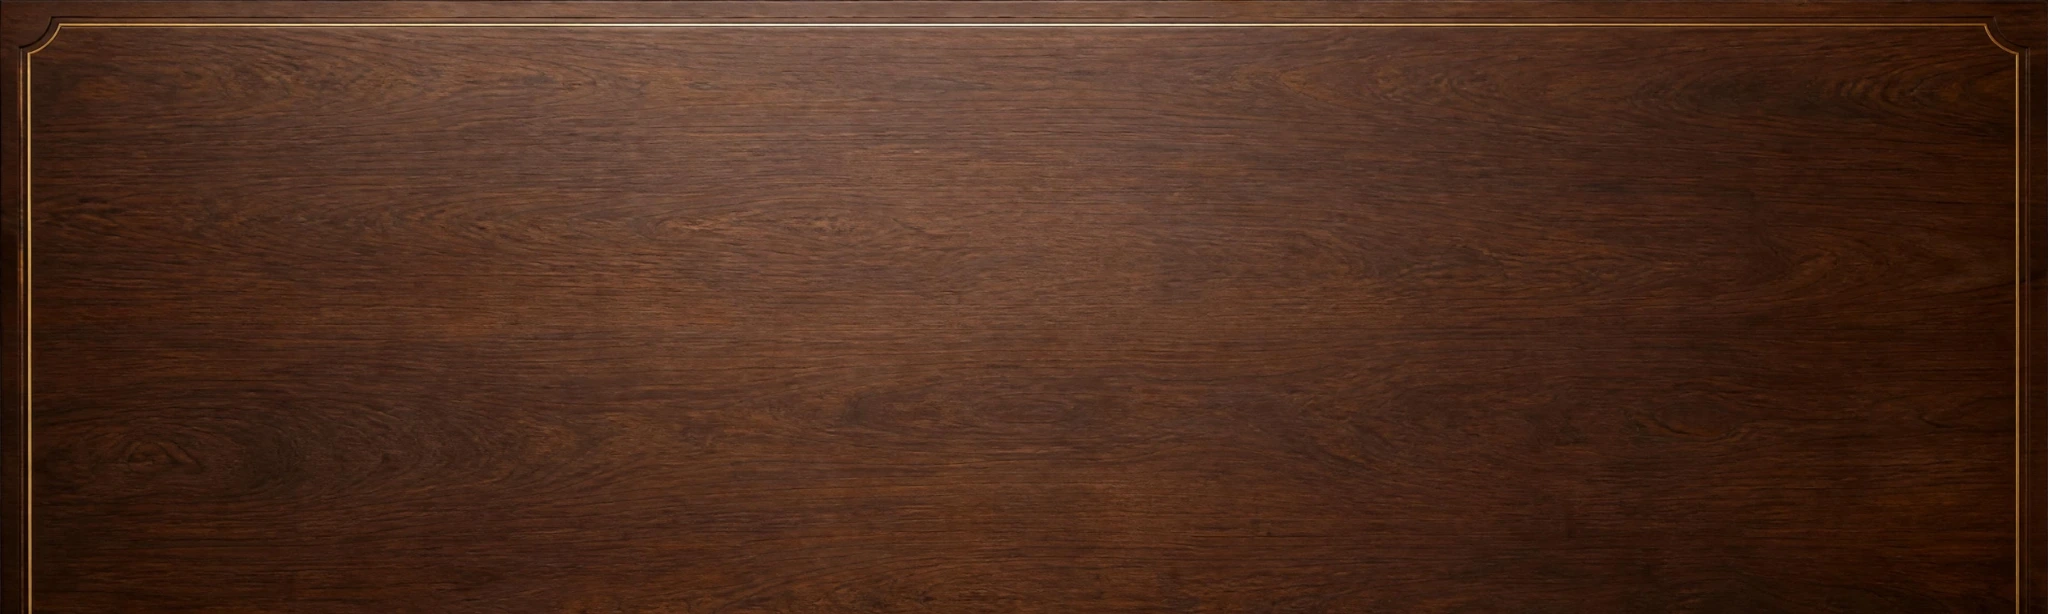
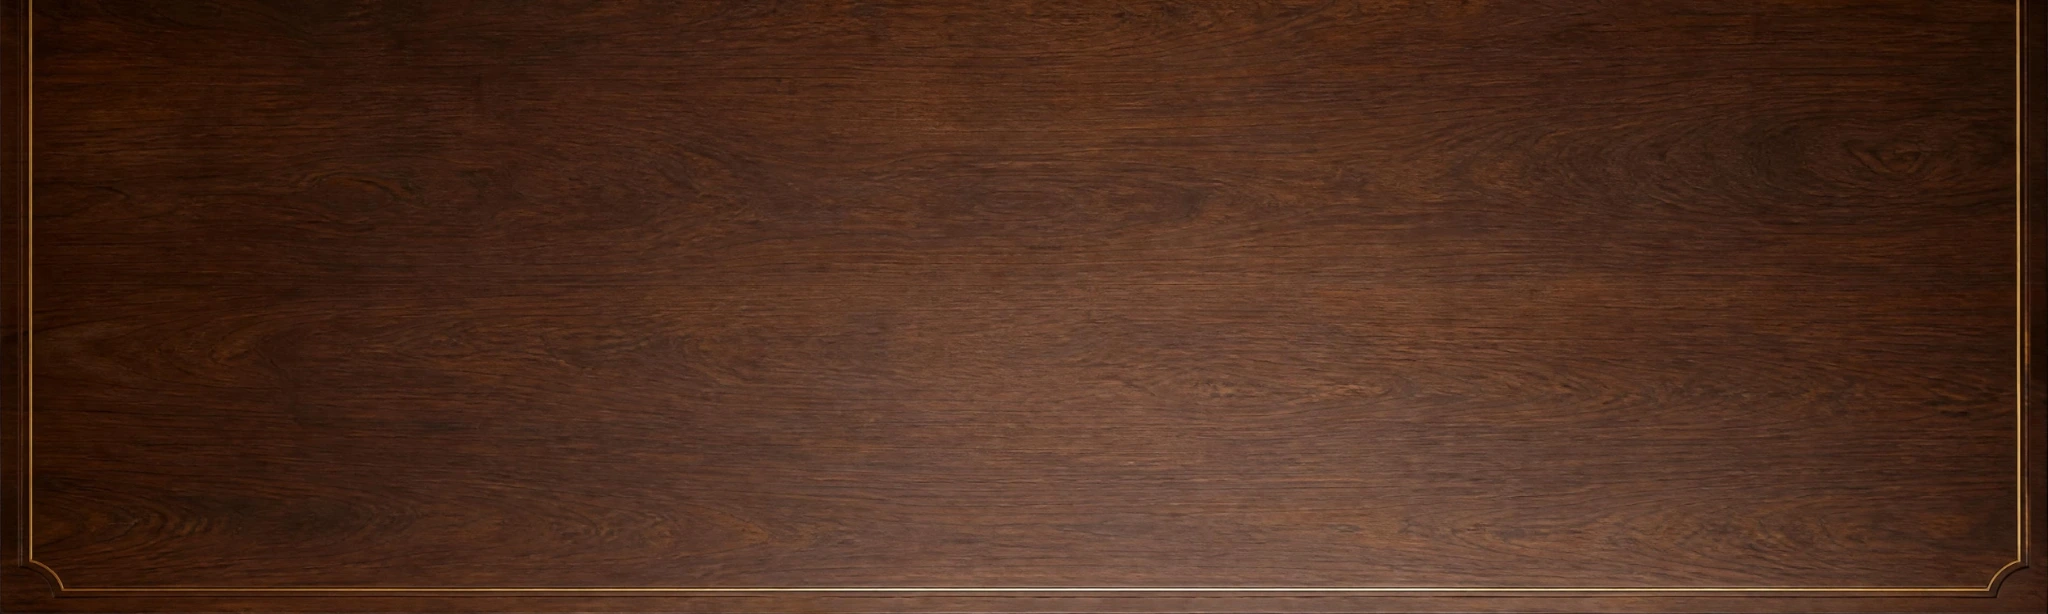
v7.69.15 board skin clarity and lobby finish polish

diff --git a/public/styles.css b/public/styles.css
@@ -11489,3 +11489,92 @@ body.match-mode .opponent-board::before { transform:rotate(180deg); }
     background-size:155% 155%,180% 180%,200% 200%;
   }
 }
+
+/* v7.69.15 — board-skin clarity, resource rail balance + lobby large-card finish */
+/* A real board skin owns the lane surface. Keep the interaction slots, but let the artwork breathe. */
+body.match-mode .player-board[class*="board-skin-"] .board-lane {
+  background:transparent !important;
+  border-color:transparent !important;
+  box-shadow:none !important;
+}
+body.match-mode .player-board[class*="board-skin-"] .board-lane::before { display:none !important; }
+
+/* Resource rail: the Archive remains visibly related to the Deck instead of collapsing into a tiny counter. */
+@media (min-width:761px) and (min-height:601px) {
+  body.match-mode .board-resource-row { width:118px; }
+  body.match-mode .archive-compact.is-empty summary {
+    min-height:58px;
+    padding:6px 8px;
+  }
+  body.match-mode .archive-compact.is-empty .archive-summary-copy {
+    min-height:44px;
+    display:grid;
+    place-items:center;
+    gap:4px;
+    border:1px dashed rgba(142,213,255,.13);
+    border-radius:5px;
+  }
+  body.match-mode .archive-compact.is-empty .archive-summary-copy span { font-size:6px; }
+  body.match-mode .archive-compact.is-empty .archive-summary-copy strong { font-size:16px; }
+}
+@media (min-width:2200px) and (min-height:1100px) {
+  body.match-mode .board-resource-row { width:174px; }
+  body.match-mode .deck-pile { min-height:184px; overflow:hidden; }
+  body.match-mode .deck-stack-visual { width:120px; height:168px; }
+  body.match-mode .deck-stack-visual > i,
+  body.match-mode .deck-stack-visual > span { width:114px; height:160px; }
+  body.match-mode .archive-compact.is-empty summary { min-height:82px; padding:8px 10px; }
+  body.match-mode .archive-compact.is-empty .archive-summary-copy { min-height:62px; }
+  body.match-mode .archive-compact.is-empty .archive-summary-copy span { font-size:7px; }
+  body.match-mode .archive-compact.is-empty .archive-summary-copy strong { font-size:20px; }
+}
+
+/* Mobile: the 4-slot support group is centered on the same five-column gameplay axis. */
+@media (max-width:760px) {
+  body.match-mode .slots.support-row,
+  body.match-mode .slots.support {
+    width:80%;
+    margin-inline:auto;
+    grid-template-columns:repeat(4,minmax(0,1fr)) !important;
+    justify-content:center !important;
+  }
+  body.match-mode .board-lane .card,
+  body.match-mode .board-lane .empty-slot { aspect-ratio:5/7 !important; }
+}
+
+/* Lobby large cards keep the shared Deckbuilder face, but scale its typography/anatomy for showcase duty. */
+.desk-card-fan-item > .catalog-card-face {
+  display:flex;
+  flex-direction:column;
+}
+.desk-card-fan-item > .catalog-card-face .catalog-rules { flex:0 0 auto; }
+.desk-card-fan-item > .catalog-card-face .catalog-tags { margin-top:auto; }
+/* The legacy T3 sweep created a visible bar over real artwork; the shared foil masks remain intact. */
+.desk-card-fan-item .catalog-foil-sheen { display:none !important; }
+
+@media (min-width:761px) {
+  .desk-card-fan-item > .catalog-card-face .catalog-rules {
+    min-height:46px;
+    max-height:58px;
+    font-size:8px;
+    line-height:1.2;
+    -webkit-line-clamp:4;
+  }
+  .desk-card-fan-item > .catalog-card-face .catalog-tags { min-height:18px; max-height:18px; }
+}
+@media (min-width:2200px) and (min-height:1100px) {
+  .desk-card-fan-item > .catalog-card-face .catalog-rules {
+    min-height:72px;
+    max-height:88px;
+    padding:8px;
+    font-size:11px;
+    line-height:1.22;
+    -webkit-line-clamp:5;
+  }
+  .desk-card-fan-item > .catalog-card-face .catalog-tags {
+    min-height:26px;
+    max-height:26px;
+    align-items:flex-end;
+  }
+  .desk-card-fan-item > .catalog-card-face .catalog-tags span { font-size:7px; padding:3px 5px; }
+}

diff --git a/test/v76915.test.ts b/test/v76915.test.ts
@@ -1,0 +1,31 @@
+import { strict as assert } from "node:assert";
+import { readFileSync } from "node:fs";
+import { fileURLToPath } from "node:url";
+
+let passed=0;
+function test(name:string, fn:()=>void){ fn(); passed+=1; console.log(`✓ ${name}`); }
+const root=(name:string)=>readFileSync(fileURLToPath(new URL(`../../${name}`,import.meta.url)),"utf8");
+const rootPath=(name:string)=>fileURLToPath(new URL(`../../${name}`,import.meta.url));
+const pkg=JSON.parse(root("package.json"));
+const css=root("public/styles.css");
+const app=root("public/app.js");
+const polish=css.slice(css.lastIndexOf("/* v7.69.15 — board-skin clarity, resource rail balance + lobby large-card finish */"));
+
+test("v7.69.15 version is current",()=>assert.equal(pkg.version,"7.69.15"));
+test("board skin lanes become transparent while slots remain available",()=>{
+  assert.match(polish,/player-board\[class\*="board-skin-"\] \.board-lane[\s\S]*background:transparent !important/);
+  assert.match(polish,/board-lane::before \{ display:none !important; \}/);
+});
+test("mobile support row is centered as an 80 percent four-slot group",()=>{
+  assert.match(polish,/slots\.support-row,[\s\S]*width:80%;[\s\S]*margin-inline:auto;[\s\S]*repeat\(4,minmax\(0,1fr\)\)/);
+});
+test("lobby showcase keeps shared catalog renderer and footer tags",()=>{
+  assert.match(app,/return renderCatalogCardFace\(def,\{ artReady:Boolean\(def\.artId\) \}\)/);
+  assert.match(polish,/desk-card-fan-item > \.catalog-card-face \.catalog-tags \{ margin-top:auto; \}/);
+});
+test("lobby removes legacy art sweep without disabling shared foil masks",()=>{
+  assert.match(polish,/desk-card-fan-item \.catalog-foil-sheen \{ display:none !important; \}/);
+  assert.match(css,/desk-card-fan-item:hover > \.catalog-card-face\.tier-t2 \.catalog-art-stage::after/);
+});
+test("new classic office board asset is present",()=>assert.ok(readFileSync(rootPath("public/cosmetics/boards/classic-office.webp")).byteLength>100000));
+console.log(`\n${passed}/${passed} v7.69.15 tests passed.`);

diff --git a/test/v76914.test.ts b/test/v76914.test.ts
@@ -16,13 +16,13 @@ const polish=css.slice(css.lastIndexOf("/* v7.69.14 — provisional Classic Offi
 
 function between(source:string,start:string,end:string){ const a=source.indexOf(start),b=source.indexOf(end,a+start.length); assert.ok(a>=0&&b>a); return source.slice(a,b); }
 
-test("v7.69.14 version markers are current",()=>{
-  assert.equal(pkg.version,"7.69.14");
-  assert.match(server,/version: "7\.69\.14"/);
-  assert.match(server,/version:"7\.69\.14"/);
-  assert.match(server,/Office Card Game v7\.69\.14 server/);
-  assert.match(html,/v7\.69\.14 Alpha Playtest/);
-  assert.match(readme,/## v7\.69\.14 — Provisional Classic Office Board \+ Responsive Card Polish/);
+test("v7.69.15 version markers are current",()=>{
+  assert.equal(pkg.version,"7.69.15");
+  assert.match(server,/version: "7\.69\.15"/);
+  assert.match(server,/version:"7\.69\.15"/);
+  assert.match(server,/Office Card Game v7\.69\.15 server/);
+  assert.match(html,/v7\.69\.15 Alpha Playtest/);
+  assert.match(readme,/## v7\.69\.15 — Board Skin Clarity \+ Resource Rail \+ Lobby Finish/);
   assert.match(pkg.scripts.test,/dist\/test\/v76914\.test\.js/);
 });
 
@@ -75,4 +75,4 @@ test("v7.69.13 localization and direct-attack work remain intact",()=>{
   assert.match(css,/\/\* v7\.69\.12 — centered hover preview, board-native placement \+ compact physical piles \*\//);
 });
 
-console.log(`\n${passed}/${passed} v7.69.14 tests passed.`);
+console.log(`\n${passed}/${passed} v7.69.15 tests passed.`);

diff --git a/test/v76913.test.ts b/test/v76913.test.ts
@@ -20,11 +20,11 @@ const polish=css.slice(css.lastIndexOf("/* v7.69.13 — mobile slot parity, phys
 function between(source:string,start:string,end:string){ const a=source.indexOf(start),b=source.indexOf(end,a+start.length); assert.ok(a>=0&&b>a); return source.slice(a,b); }
 
 test("v7.69.13 version markers are current",()=>{
-  assert.equal(pkg.version,"7.69.14");
-  assert.match(server,/version: "7\.69\.14"/);
-  assert.match(server,/version:"7\.69\.14"/);
-  assert.match(server,/Office Card Game v7\.69\.14 server/);
-  assert.match(html,/v7\.69\.14 Alpha Playtest/);
+  assert.equal(pkg.version,"7.69.15");
+  assert.match(server,/version: "7\.69\.15"/);
+  assert.match(server,/version:"7\.69\.15"/);
+  assert.match(server,/Office Card Game v7\.69\.15 server/);
+  assert.match(html,/v7\.69\.15 Alpha Playtest/);
   assert.match(readme,/## v7\.69\.13 — Localization \+ Mobile Geometry \+ Showcase Polish/);
   assert.match(pkg.scripts.test,/dist\/test\/v76913\.test\.js/);
 });

diff --git a/test/v76912.test.ts b/test/v76912.test.ts
@@ -16,11 +16,11 @@ const polish=css.slice(css.lastIndexOf("/* v7.69.12 — centered hover preview, 
 function between(source:string,start:string,end:string){ const a=source.indexOf(start),b=source.indexOf(end,a+start.length); assert.ok(a>=0&&b>a); return source.slice(a,b); }
 
 test("v7.69.12 version markers are current",()=>{
-  assert.equal(pkg.version,"7.69.14");
-  assert.match(server,/version: "7\.69\.14"/);
-  assert.match(server,/version:"7\.69\.14"/);
-  assert.match(server,/Office Card Game v7\.69\.14 server/);
-  assert.match(html,/v7\.69\.14 Alpha Playtest/);
+  assert.equal(pkg.version,"7.69.15");
+  assert.match(server,/version: "7\.69\.15"/);
+  assert.match(server,/version:"7\.69\.15"/);
+  assert.match(server,/Office Card Game v7\.69\.15 server/);
+  assert.match(html,/v7\.69\.15 Alpha Playtest/);
   assert.match(readme,/## v7\.69\.12 — Preview \+ Board Interaction Polish/);
   assert.match(pkg.scripts.test,/dist\/test\/v76912\.test\.js/);
 });

diff --git a/test/v7698.test.ts b/test/v7698.test.ts
@@ -23,11 +23,11 @@ function sliceBetween(source:string,start:string,end:string){
 const polish=css.slice(css.lastIndexOf("/* v7.69.8 — board geometry, inspect affordance + readable combat resolution */"));
 
 test("v7.69.8 version markers are current",()=>{
-  assert.equal(pkg.version,"7.69.14");
-  assert.match(server,/version: "7\.69\.14"/);
-  assert.match(server,/version:"7\.69\.14"/);
-  assert.match(server,/Office Card Game v7\.69\.14 server/);
-  assert.match(html,/v7\.69\.14 Alpha Playtest/);
+  assert.equal(pkg.version,"7.69.15");
+  assert.match(server,/version: "7\.69\.15"/);
+  assert.match(server,/version:"7\.69\.15"/);
+  assert.match(server,/Office Card Game v7\.69\.15 server/);
+  assert.match(html,/v7\.69\.15 Alpha Playtest/);
   assert.match(readme,/## v7\.69\.8 — Board Geometry \+ Combat Readability/);
   assert.match(pkg.scripts.test,/dist\/test\/v7698\.test\.js/);
 });

diff --git a/test/v76911.test.ts b/test/v76911.test.ts
@@ -16,10 +16,10 @@ const polish=css.slice(css.lastIndexOf("/* v7.69.11 — stable transient motion,
 function between(source:string,start:string,end:string){ const a=source.indexOf(start),b=source.indexOf(end,a+start.length); assert.ok(a>=0&&b>a); return source.slice(a,b); }
 
 test("v7.69.11 version markers are current",()=>{
-  assert.equal(pkg.version,"7.69.14");
-  assert.match(server,/version: "7\.69\.14"/);
-  assert.match(server,/version:"7\.69\.14"/);
-  assert.match(html,/v7\.69\.14 Alpha Playtest/);
+  assert.equal(pkg.version,"7.69.15");
+  assert.match(server,/version: "7\.69\.15"/);
+  assert.match(server,/version:"7\.69\.15"/);
+  assert.match(html,/v7\.69\.15 Alpha Playtest/);
   assert.match(readme,/## v7\.69\.11 — Render Stability \+ Pile Polish/);
   assert.match(pkg.scripts.test,/dist\/test\/v76911\.test\.js/);
 });

diff --git a/test/v7697.test.ts b/test/v7697.test.ts
@@ -28,11 +28,11 @@ const polishEnd=css.indexOf("/* v7.69.8 — board geometry, inspect affordance +
 const polish=css.slice(polishStart,polishEnd>polishStart?polishEnd:undefined);
 
 test("v7.69.7 version markers are current",()=>{
-  assert.equal(pkg.version,"7.69.14");
-  assert.match(server,/version: "7\.69\.14"/);
-  assert.match(server,/version:"7\.69\.14"/);
-  assert.match(server,/Office Card Game v7\.69\.14 server/);
-  assert.match(html,/v7\.69\.14 Alpha Playtest/);
+  assert.equal(pkg.version,"7.69.15");
+  assert.match(server,/version: "7\.69\.15"/);
+  assert.match(server,/version:"7\.69\.15"/);
+  assert.match(server,/Office Card Game v7\.69\.15 server/);
+  assert.match(html,/v7\.69\.15 Alpha Playtest/);
   assert.match(readme,/## v7\.69\.7 — Card Consistency \+ Artwork Completion/);
 });
 

diff --git a/test/v76910.test.ts b/test/v76910.test.ts
@@ -20,11 +20,11 @@ function sliceBetween(source:string,start:string,end:string){
 }
 
 test("v7.69.10 version markers are current",()=>{
-  assert.equal(pkg.version,"7.69.14");
-  assert.match(server,/version: "7\.69\.14"/);
-  assert.match(server,/version:"7\.69\.14"/);
-  assert.match(server,/Office Card Game v7\.69\.14 server/);
-  assert.match(html,/v7\.69\.14 Alpha Playtest/);
+  assert.equal(pkg.version,"7.69.15");
+  assert.match(server,/version: "7\.69\.15"/);
+  assert.match(server,/version:"7\.69\.15"/);
+  assert.match(server,/Office Card Game v7\.69\.15 server/);
+  assert.match(html,/v7\.69\.15 Alpha Playtest/);
   assert.match(readme,/## v7\.69\.10 — Direct Attack Target \+ Phase Alignment/);
   assert.match(pkg.scripts.test,/dist\/test\/v76910\.test\.js/);
 });

diff --git a/test/v7699.test.ts b/test/v7699.test.ts
@@ -20,11 +20,11 @@ function sliceBetween(source:string,start:string,end:string){
 }
 
 test("v7.69.9 version markers are current",()=>{
-  assert.equal(pkg.version,"7.69.14");
-  assert.match(server,/version: "7\.69\.14"/);
-  assert.match(server,/version:"7\.69\.14"/);
-  assert.match(server,/Office Card Game v7\.69\.14 server/);
-  assert.match(html,/v7\.69\.14 Alpha Playtest/);
+  assert.equal(pkg.version,"7.69.15");
+  assert.match(server,/version: "7\.69\.15"/);
+  assert.match(server,/version:"7\.69\.15"/);
+  assert.match(server,/Office Card Game v7\.69\.15 server/);
+  assert.match(html,/v7\.69\.15 Alpha Playtest/);
   assert.match(readme,/## v7\.69\.9 — Responsive Board \+ Interaction Follow-up/);
   assert.match(pkg.scripts.test,/dist\/test\/v7699\.test\.js/);
 });

diff --git a/test/v769.test.ts b/test/v769.test.ts
@@ -23,10 +23,10 @@ function sliceBetween(source:string,start:string,end:string){
 }
 
 test("v7.69 version markers are current",()=>{
-  assert.equal(pkg.version,"7.69.14");
-  assert.match(server,/version: "7\.69\.14"/);
-  assert.match(server,/Office Card Game v7\.69\.14 server/);
-  assert.match(html,/v7\.69\.14 Alpha Playtest/);
+  assert.equal(pkg.version,"7.69.15");
+  assert.match(server,/version: "7\.69\.15"/);
+  assert.match(server,/Office Card Game v7\.69\.15 server/);
+  assert.match(html,/v7\.69\.15 Alpha Playtest/);
   assert.match(readme,/## v7\.69\.8 — Board Geometry \+ Combat Readability/);
   assert.match(readme,/## v7\.69\.7 — Card Consistency \+ Artwork Completion/);
   assert.match(readme,/## v7\.69\.6 — Lobby Balance \+ Card Presentation Polish/);

diff --git a/public/locales/de.js b/public/locales/de.js
@@ -1,5 +1,5 @@
 export const de = Object.freeze({
-  meta: { title: "Office Card Game — v7.69.14 Alpha-Playtest" },
+  meta: { title: "Office Card Game — v7.69.15 Alpha-Playtest" },
   accessibility: { skipToGame: "Zum Spielinhalt springen" },
   nav: { backToLobby: "Zurück zur Lobby", lobby: "Lobby" },
   language: { label: "Sprache", english: "Englisch", german: "Deutsch" },
@@ -200,7 +200,7 @@ export const deLegacyPhrases = Object.freeze({
   "Legal starter":"Legales Starterdeck",
   "OWNED READY":"BESITZ BEREIT",
 
-  /* v7.69.14 match-surface localization audit */
+  /* v7.69.15 match-surface localization audit */
   "OPENING HANDS":"STARTHÄNDE",
   "YOUR":"DU",
   "OPPONENT":"GEGNER",
